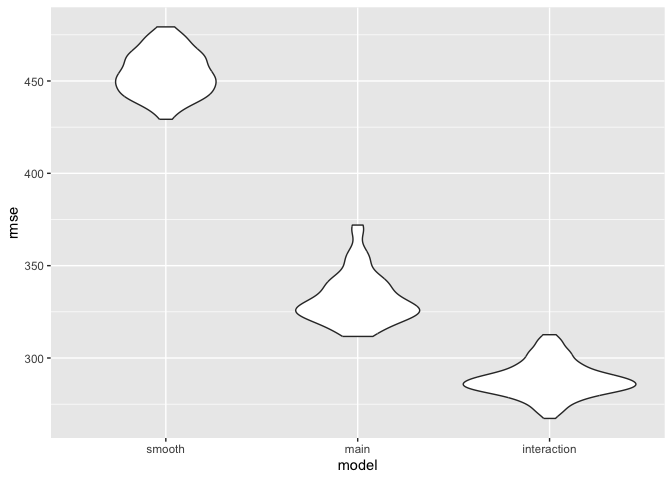
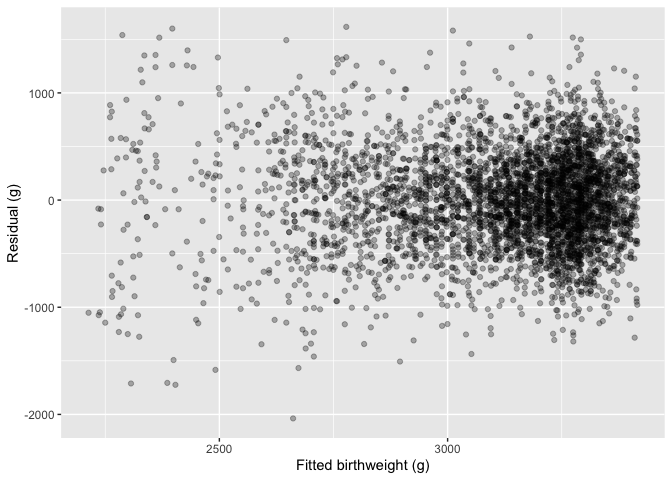
Starting to look at problem 2

diff --git a/p8105_hw6_eej2124.md b/p8105_hw6_eej2124.md
@@ -148,6 +148,39 @@ library(p8105.datasets)
 data("weather_df")
 ```
 
+``` r
+weather_df |> 
+  lm(tmax ~ tmin + prcp, data = _)
+```
+
+    ## 
+    ## Call:
+    ## lm(formula = tmax ~ tmin + prcp, data = weather_df)
+    ## 
+    ## Coefficients:
+    ## (Intercept)         tmin         prcp  
+    ##    7.775638     1.017480    -0.005578
+
+``` r
+draw_boot_sample = function(df) {
+  
+  sample_frac(df, replace = TRUE)
+  
+}
+```
+
+``` r
+boot_strap_df = 
+  tibble(
+    strap_number = 1:5000
+  ) |> 
+  mutate(
+    strap_sample = map(strap_number, \(i) draw_boot_sample (weather_df))
+  ) 
+```
+
+FIx this
+
 # Problem 3
 
 ## Importing data
@@ -220,7 +253,7 @@ birthweight_df |>
   labs(x = "Fitted birthweight (g)", y = "Residual (g)")
 ```
 
-![](p8105_hw6_eej2124_files/figure-gfm/unnamed-chunk-10-1.png)<!-- -->
+![](p8105_hw6_eej2124_files/figure-gfm/unnamed-chunk-13-1.png)<!-- -->
 
 ## Other models
 
@@ -262,7 +295,7 @@ cv_df |>
   ggplot(aes(x = model, y = rmse)) + geom_violin()
 ```
 
-![](p8105_hw6_eej2124_files/figure-gfm/unnamed-chunk-13-1.png)<!-- -->
+![](p8105_hw6_eej2124_files/figure-gfm/unnamed-chunk-16-1.png)<!-- -->
 
 My hypothetical model is terrible. It does not compare with the other
 two models. The interaction model is by far the best of the three.
